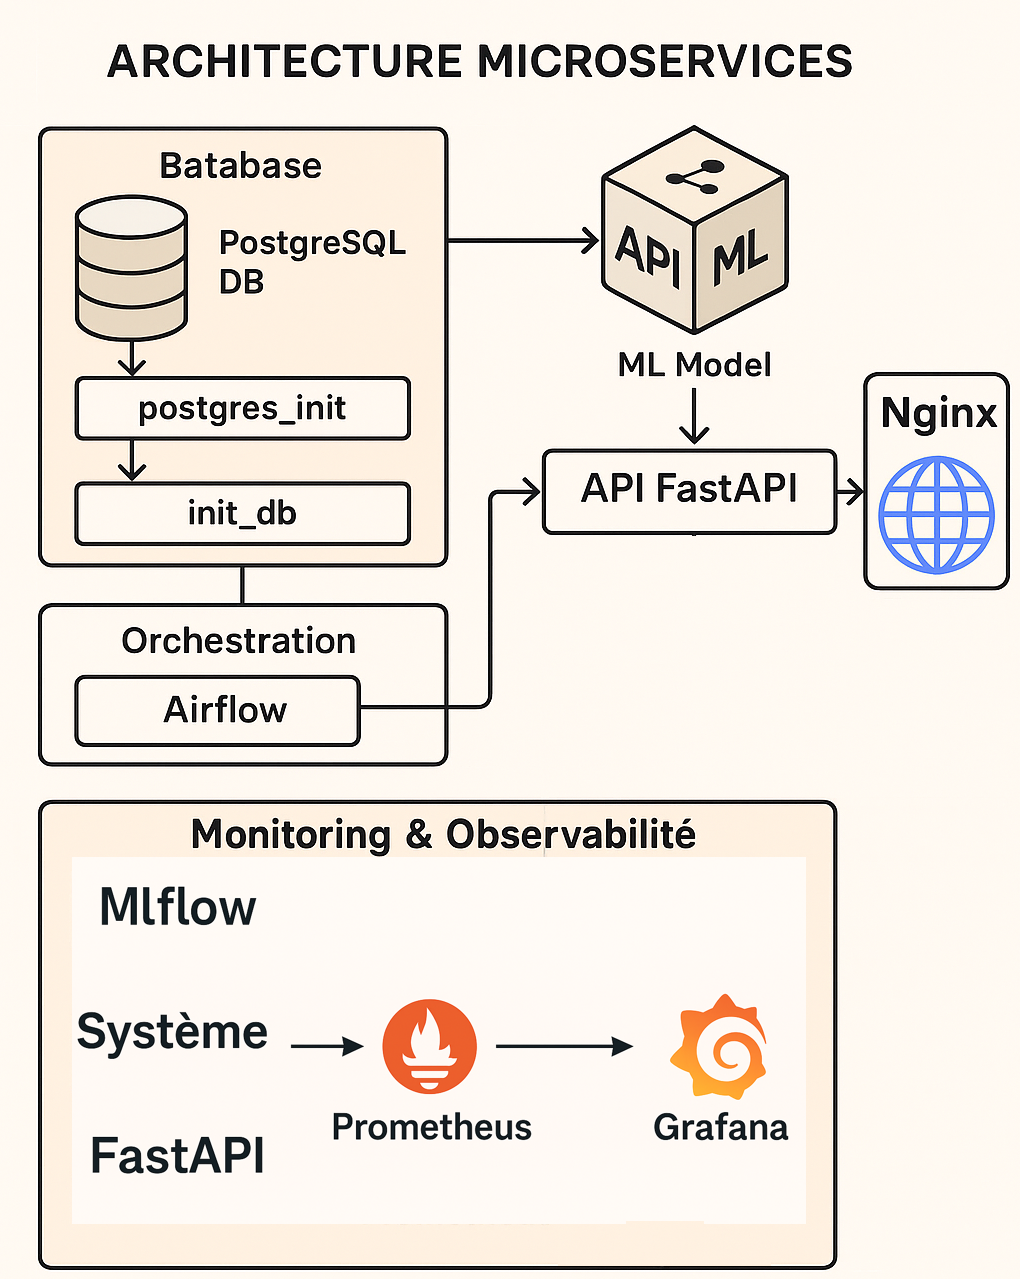
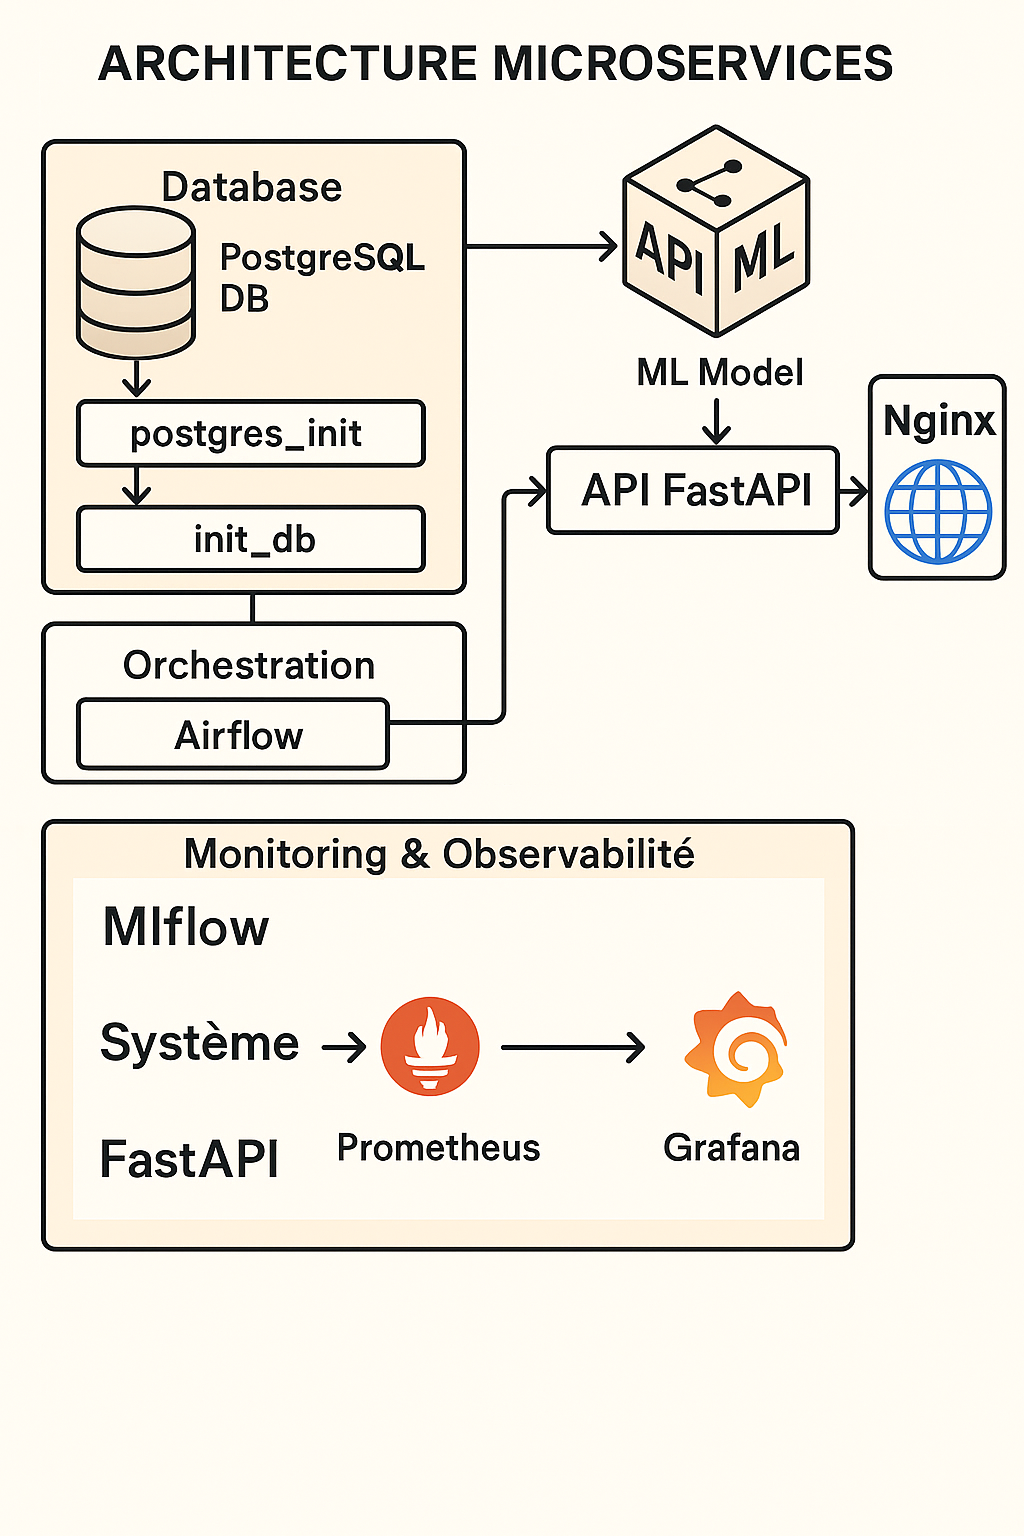
[#26] Changed : refacto + conclusion

Changed region(s): [[0.0304, 0.0305, 1.0, 1.0], [0.0912, 0.8843, 0.2735, 0.9148]]

diff --git a/src/streamlit/pages_streamlit/page_conclusion.py b/src/streamlit/pages_streamlit/page_conclusion.py
@@ -1,0 +1,73 @@
+import streamlit as st
+
+def run(role=None):
+    st.title("✅ Conclusion du Projet MLOps Rakuten")
+
+    st.markdown("### 📦 Ce que nous avons accompli")
+
+    st.markdown("""
+Nous avons mis en place une architecture **MLOps complète** en utilisant Docker Compose, incluant :
+
+- 🔐 Une API FastAPI sécurisée avec **OAuth2 + JWT**
+- 🧠 Un modèle **multimodal (texte + image)** intégré et traçable
+- 📊 Un serveur **MLflow** connecté à tous les runs d’entraînement
+- 🧪 Des **tests unitaires** garantissant la fiabilité du système
+- 📈 Un dashboard **Streamlit** pour la visualisation et l’interaction
+- 📡 Une solution de **monitoring** avec **Prometheus & Grafana**
+- 🔁 Une gateway et un reverse proxy **centralisant les accès**
+- ⏳ Une base **Airflow prête** pour orchestrer de futurs pipelines
+    """)
+
+    st.markdown("---")
+    st.markdown("### 🧠 Et si nous avions eu plus de temps...")
+
+    col1, col2 = st.columns(2)
+
+    with col1:
+        st.markdown("#### ☁️ Scalabilité avec Kubernetes")
+        st.markdown("""
+        - Déploiement sur **Kubernetes**
+        - **Autoscaling** des services API/Streamlit
+        - Gestion des **volumes persistants** pour MLflow et Postgres
+        """)
+
+        st.markdown("#### 🔁 Automatisation de l’ingestion")
+        st.markdown("""
+        - Activation du **scheduler Airflow**
+        - Détection automatique de nouvelles données
+        - Réentraînement conditionnel du modèle
+        """)
+
+    with col2:
+        st.markdown("#### 🚀 Pipeline CI/CD avancé")
+        st.markdown("""
+        - Tests automatisés
+        - Build et push d’images Docker
+        - Déploiement automatique via **GitHub Actions**
+        """)
+
+        st.markdown("#### 📣 Monitoring enrichi")
+        st.markdown("""
+        - Alertes sur les métriques critiques (F1, latence API)
+        """)
+
+    st.markdown("---")
+    st.markdown("### 🎯 Notre vision à long terme")
+
+    st.markdown("""
+Construire une **plateforme intelligente et scalable**, capable de :
+
+- S'adapter aux **variations de charge**
+- Suivre l’évolution des **données** et des **modèles**
+- Permettre aux utilisateurs de **piloter leur IA** via des interfaces simples
+- Offrir une **observabilité complète** de bout en bout
+
+""")
+
+    st.markdown("---")
+    st.markdown("### 🙌 Remerciements")
+
+    st.success("Merci à tous pour votre attention")
+
+if __name__ == "__main__":
+    run()

diff --git a/src/streamlit/main.py b/src/streamlit/main.py
@@ -44,9 +44,9 @@ if token:
 
             # Définir les pages accessibles en fonction du rôle
             if role == "admin":
-                accessible_pages = ["Accueil", "Entraînement modèle", "Classification produit", "Dashboard MLflow", "Monitoring", "Airflow"]
+                accessible_pages = ["Accueil", "Entraînement modèle", "Classification produit", "Dashboard MLflow", "Monitoring", "Airflow", "Conclusion"]
             elif role == "dev":
-                accessible_pages = ["Accueil", "Entraînement modèle", "Classification produit", "Monitoring"]
+                accessible_pages = ["Accueil", "Entraînement modèle", "Classification produit", "Monitoring", "Conclusion"]
             elif role == "client":
                 accessible_pages = ["Accueil", "Classification produit"]
             else:
@@ -78,6 +78,9 @@ if token:
             elif page == "Monitoring":
                 from pages_streamlit import page_monitoring
                 page_monitoring.run(role)
+            elif page == "Conclusion":
+                from pages_streamlit import page_conclusion
+                page_conclusion.run(role)
         else:
             st.error("Token invalide ou expiré.")
             st.markdown("[Connectez-vous ici](http://127.0.0.1:8000/)")

diff --git a/src/streamlit/pages_streamlit/page_MLflow.py b/src/streamlit/pages_streamlit/page_MLflow.py
@@ -6,9 +6,6 @@ def run(role=None):
 
     mlflow_url = "http://localhost:8088/proxy/mlflow/"
 
-    if role:
-        st.info(f"Vous êtes connecté en tant que {role}.")
-
     # Section accès rapide
     st.markdown("### 🚀 Accès à l'interface MLflow")
 

diff --git a/src/streamlit/pages_streamlit/page_airflow.py b/src/streamlit/pages_streamlit/page_airflow.py
@@ -8,9 +8,6 @@ def run(role=None):
 
     airflow_url = "http://localhost:8080"
 
-    if role:
-        st.info(f"Connecté en tant que {role}.")
-
     st.markdown("### Accès à l'interface Airflow")
 
     st.markdown(

diff --git a/src/streamlit/pages_streamlit/page_home.py b/src/streamlit/pages_streamlit/page_home.py
@@ -22,6 +22,7 @@ def run(role=None):
             - Entraînement automatisé via **FastAPI**,
             - Intégration dans une interface **Streamlit** pour le pilotage,
             - Orchestration avec **Airflow**, packaging avec **Docker**, versioning, et logs structurés.
+        5. Versionning avec Github et Dagshub (https://dagshub.com/snakecase44/RAKUTEN_MLOPS)
 
         ---
 
@@ -39,7 +40,7 @@ def run(role=None):
     st.title("🧩 Architecture des Microservices")
     st.subheader("📌 Schéma de l'architecture")
     image = Image.open("schema_microservices.png")
-    st.image(image, caption="Schéma global des microservices", use_container_width=True)  
+    st.image(image, caption="Schéma global des microservices", width=600)
     st.subheader("📘 Détail des services")
     st.markdown("""
         # 🧩 Présentation de l’architecture des microservices RAKUTEN MLOps

diff --git a/src/streamlit/pages_streamlit/page_monitoring.py b/src/streamlit/pages_streamlit/page_monitoring.py
@@ -9,9 +9,6 @@ def run(role=None):
     grafana_url = "http://localhost:3000"
     prometheus_url = "http://localhost:8088/proxy/prometheus/"
 
-    if role:
-        st.info(f"Connecté en tant que {role}.")
-
     # Section accès rapide
     st.markdown("### 🚀 Accès rapide aux interfaces")
 

diff --git a/src/streamlit/pages_streamlit/page_predict.py b/src/streamlit/pages_streamlit/page_predict.py
@@ -41,9 +41,6 @@ def run(role=None):
     st.title("🎯 Classification Multimodale")
     st.write("Uploadez une image et saisissez une description pour classifier le produit.")
 
-    if role:
-        st.info(f"Vous êtes connecté en tant que {role}.")
-
     with st.form("predict_form"):
         col1, col2 = st.columns(2)
 